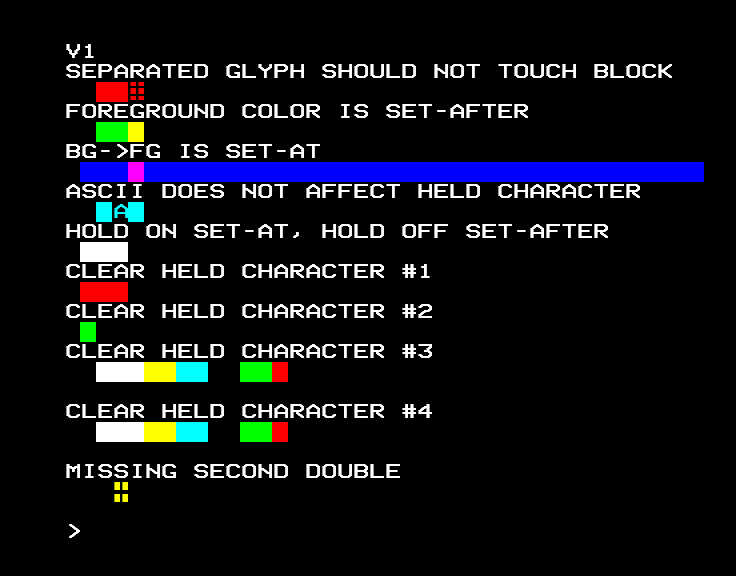
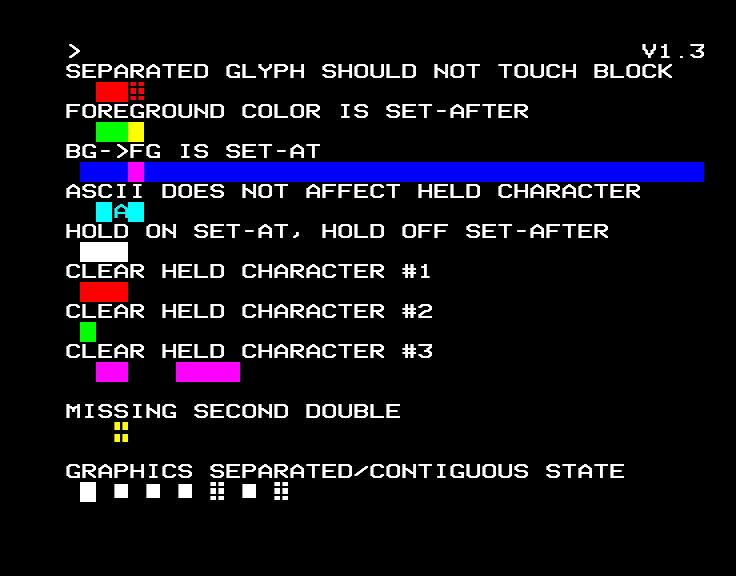
Fix some teletext issues.
- update teletst to V1.3 with some additional test cases

- don't clear held graphics when text height state didn't change

- don't engage graphics when selecting separated/contiguous graphics

Fix #164.

diff --git a/src/beeb/src/teletext.cpp b/src/beeb/src/teletext.cpp
@@ -300,21 +300,31 @@ void SAA5050::Byte(uint8_t value,uint8_t dispen) {
 
         case 0x0c:
             // Normal Height
+
+            // State change clears hold graphics state.
+            if(m_raster_shift!=0) {
+                data0=0;
+                data1=0;
+                m_last_graphics_data0=0;
+                m_last_graphics_data1=0;
+            }
+
             m_raster_shift=0;
-            data0=0;
-            data1=0;
-            m_last_graphics_data0=0;
-            m_last_graphics_data1=0;
             break;
 
         case 0x0d:
             // Double Height
+
+            // State change clears hold graphics state.
+            if(m_raster_shift!=0) {
+                data0=0;
+                data1=0;
+                m_last_graphics_data0=0;
+                m_last_graphics_data1=0;
+            }
+
             m_any_double_height=true;
             m_raster_shift=1;
-            data0=0;
-            data1=0;
-            m_last_graphics_data0=0;
-            m_last_graphics_data1=0;
             break;
 
         case 0x0e:
@@ -339,7 +349,6 @@ void SAA5050::Byte(uint8_t value,uint8_t dispen) {
             // Graphics
             m_fg=value&7;
             m_conceal=false;
-        set_charset:;
             m_charset=m_graphics_charset;
             break;
 
@@ -351,12 +360,18 @@ void SAA5050::Byte(uint8_t value,uint8_t dispen) {
         case 0x19:
             // Contiguous Graphics
             m_graphics_charset=TeletextCharset_ContiguousGraphics;
-            goto set_charset;
+            if(m_charset==TeletextCharset_SeparatedGraphics) {
+                m_charset=m_graphics_charset;
+            }
+            break;
 
         case 0x1a:
             // Separated Graphics
             m_graphics_charset=TeletextCharset_SeparatedGraphics;
-            goto set_charset;
+            if(m_charset==TeletextCharset_ContiguousGraphics) {
+                m_charset=m_graphics_charset;
+            }
+            break;
 
         case 0x1b:
             // ESC
